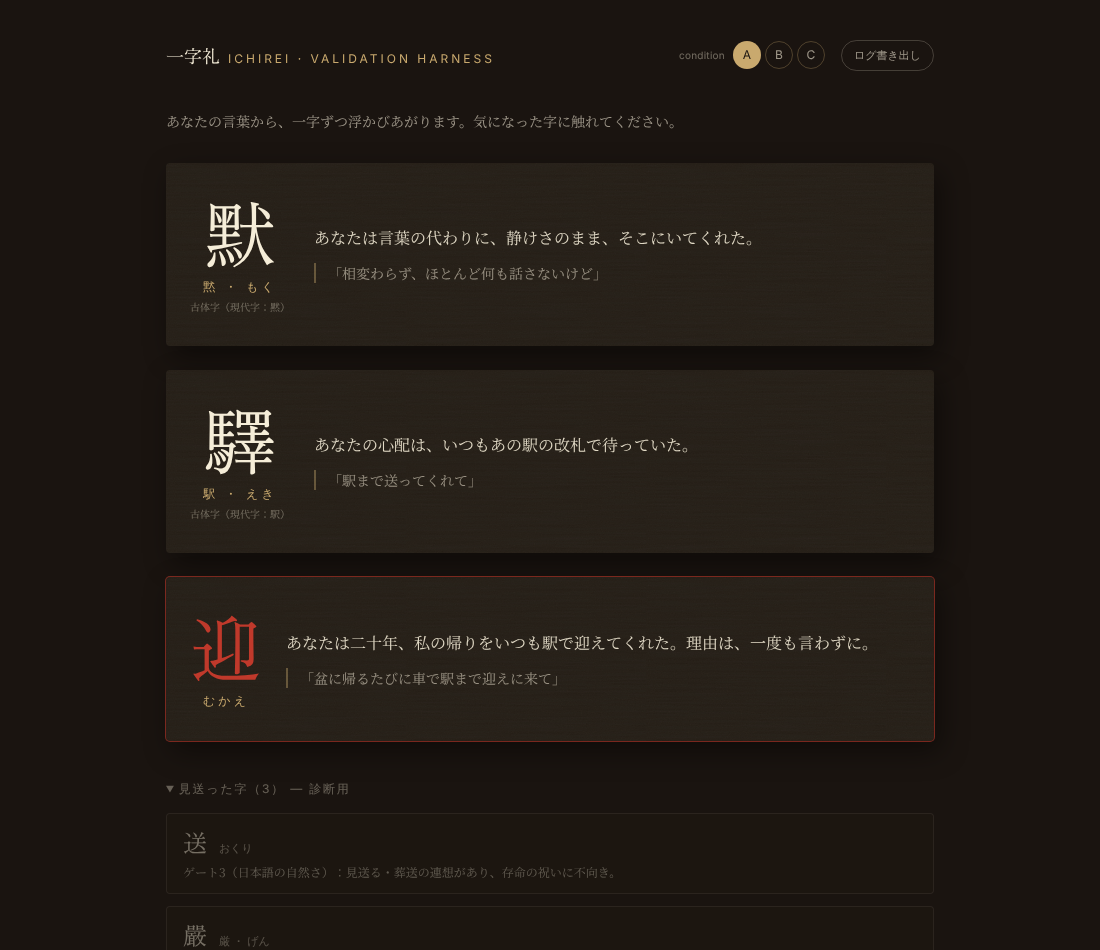
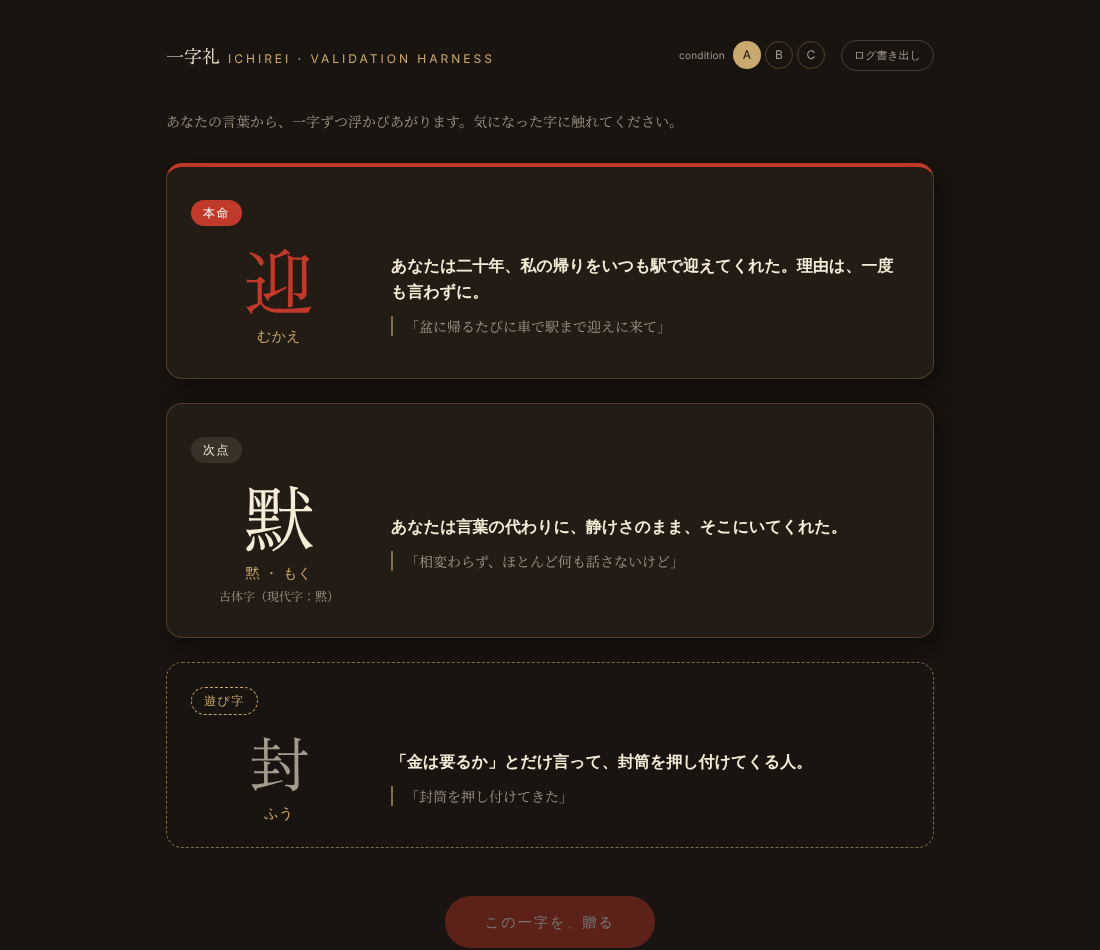
Engine: max tokens 14000, one automatic retry with 20000 when the limit is hit
- ICHIREI_MAX_TOKENS default 8000 -> 14000 (code and cloudbuild.yaml). A long remembrance story used up 8000 on reasoning.
- A run that hits the limit is retried once with ICHIREI_MAX_TOKENS_RETRY (default 20000), inside the run budget; only a second hit is an error.
- /api/health reports maxTokensRetry; the timing line reports attempts and max_tokens_used.

Claude-Session: https://claude.ai/code/session_018g1sRebtfKKYj1Xkp5zTS1

diff --git a/engine/engine.ts b/engine/engine.ts
@@ -40,9 +40,11 @@ const EFFORT = (process.env.ICHIREI_EFFORT ?? 'medium') as
   | 'high'
   | 'xhigh'
   | 'max'
-// 8000 covers the longest valid answer (three candidates + fingerprint, ≈ 2–3k tokens; the longest fixture is ~2,100 characters)
-// with room left for the reasoning, which counts against this limit too. A run that still hits it is reported as such, not as a parse error.
-const MAX_TOKENS = Number(process.env.ICHIREI_MAX_TOKENS ?? 8000)
+// The answer itself is short (≈ 1–2k tokens in the slim contract); the limit is mostly room for the REASONING, which counts against it
+// too. 8000 was too tight for a long remembrance story (a live run hit it after 105 s), so 14000, and a hit is retried once with 20000.
+const MAX_TOKENS = Number(process.env.ICHIREI_MAX_TOKENS ?? 14000)
+// One automatic retry when the answer was cut off by the limit above (the reasoning ran long, e.g. on a remembrance story).
+const MAX_TOKENS_RETRY = Number(process.env.ICHIREI_MAX_TOKENS_RETRY ?? 20000)
 // The review only checks a short answer: the fastest current model at low effort (ICHIREI_REVIEW_MODEL / ICHIREI_REVIEW_EFFORT override).
 export const DEFAULT_REVIEW_MODEL = 'claude-haiku-5-5'
 const REVIEW_MODEL = process.env.ICHIREI_REVIEW_MODEL ?? DEFAULT_REVIEW_MODEL
@@ -236,14 +238,16 @@ export async function runEngine(
   opts.onStage?.('reading')
 
   // Stream + finalMessage so reasoning doesn't hit an HTTP timeout; the function still returns one assembled JSON response.
-  // One call may take at most ICHIREI_CALL_TIMEOUT_MS (default 150 s). A selection that hits the ceiling is retried ONCE (as long as
-  // the run budget allows it) before the sender sees an error.
-  const callSelection = async (limitMs: number): Promise<Anthropic.Message> => {
+  // One call may take at most ICHIREI_CALL_TIMEOUT_MS (default 150 s). The selection gets ONE automatic retry — whichever comes first:
+  // the call hit that ceiling (same settings), or the model ran out of output room (max_tokens) before finishing its answer (the
+  // retry allows ICHIREI_MAX_TOKENS_RETRY, default 20000) — as long as the run budget still has room for it. Only then does the
+  // sender see an error.
+  const callSelection = async (limitMs: number, maxTokens: number): Promise<Anthropic.Message> => {
     const signal = callSignal(opts.signal, limitMs)
     const stream = client.messages.stream(
       {
         model: MODEL,
-        max_tokens: MAX_TOKENS,
+        max_tokens: maxTokens,
         output_config: { effort: EFFORT },
         messages: [{ role: 'user', content: prompt }],
       },
@@ -264,49 +268,59 @@ export async function runEngine(
       throw err
     }
   }
-  let message: Anthropic.Message
-  try {
-    message = await callSelection(callTimeoutMs())
-  } catch (err) {
-    if (!(err instanceof ModelTimeoutError)) throw err
+  let maxTokens = MAX_TOKENS
+  let attempts = 0
+  let message!: Anthropic.Message
+  let extracted!: EngineResult
+  /** The time left for a retry, or null when there is none (or it was already used). Logs the decision. */
+  const retryLimit = (why: 'selection_timeout' | 'max_tokens_hit', extra: Record<string, unknown>): number | null => {
     const spent = Date.now() - tStart
     const room = runBudgetMs() - spent - REVIEW_RESERVE_MS
-    console.log(`[ichirei-engine] selection_timeout ${JSON.stringify({ after_ms: spent, retry: room >= MIN_RETRY_MS, retry_limit_ms: Math.max(0, Math.min(callTimeoutMs(), room)) })}`)
-    if (room < MIN_RETRY_MS) {
-      console.log(`[ichirei-timing] ${JSON.stringify({ select_ms: spent, status: 'timeout', model: MODEL, effort: EFFORT, max_tokens: MAX_TOKENS })}`)
-      throw err
-    }
-    opts.onStage?.('reading')
+    const retry = attempts < 2 && room >= MIN_RETRY_MS
+    console.log(`[ichirei-engine] ${why} ${JSON.stringify({ after_ms: spent, attempt: attempts, retry, retry_limit_ms: Math.max(0, Math.min(callTimeoutMs(), room)), ...extra })}`)
+    return retry ? Math.min(callTimeoutMs(), room) : null
+  }
+  let limitMs = callTimeoutMs()
+  for (;;) {
+    attempts++
     try {
-      message = await callSelection(Math.min(callTimeoutMs(), room))
-    } catch (err2) {
-      if (err2 instanceof ModelTimeoutError) console.log(`[ichirei-timing] ${JSON.stringify({ select_ms: Date.now() - tStart, status: 'timeout_after_retry', model: MODEL, effort: EFFORT, max_tokens: MAX_TOKENS })}`)
-      throw err2
+      message = await callSelection(limitMs, maxTokens)
+    } catch (err) {
+      if (!(err instanceof ModelTimeoutError)) throw err
+      const next = retryLimit('selection_timeout', {})
+      if (next === null) {
+        console.log(`[ichirei-timing] ${JSON.stringify({ select_ms: Date.now() - tStart, status: attempts > 1 ? 'timeout_after_retry' : 'timeout', attempts, model: MODEL, effort: EFFORT, max_tokens: maxTokens })}`)
+        throw err
+      }
+      limitMs = next
+      opts.onStage?.('reading')
+      continue
+    }
+    opts.onUsage?.('select', { model: MODEL, input_tokens: message.usage?.input_tokens ?? 0, output_tokens: message.usage?.output_tokens ?? 0 })
+    if (message.stop_reason === 'refusal') {
+      throw new Error('Model refused the request')
+    }
+    const textOut = message.content
+      .filter((b): b is Anthropic.TextBlock => b.type === 'text')
+      .map((b) => b.text)
+      .join('')
+    try {
+      extracted = extractJson(textOut)
+      break
+    } catch (err) {
+      if (message.stop_reason !== 'max_tokens') throw err
+      // Reasoning + answer did not fit in max_tokens: try once more with more room instead of showing an error.
+      const next = retryLimit('max_tokens_hit', { max_tokens: maxTokens, output_tokens: message.usage?.output_tokens ?? null, effort: EFFORT, retry_max_tokens: MAX_TOKENS_RETRY })
+      if (next === null || MAX_TOKENS_RETRY <= maxTokens) {
+        throw new Error(`The model ran out of output room (max_tokens ${maxTokens}) before finishing its answer`)
+      }
+      maxTokens = MAX_TOKENS_RETRY
+      limitMs = next
+      opts.onStage?.('reading')
     }
   }
   const selectMs = Date.now() - tStart
-  opts.onUsage?.('select', { model: MODEL, input_tokens: message.usage?.input_tokens ?? 0, output_tokens: message.usage?.output_tokens ?? 0 })
 
-  const textOut = message.content
-    .filter((b): b is Anthropic.TextBlock => b.type === 'text')
-    .map((b) => b.text)
-    .join('')
-
-  if (message.stop_reason === 'refusal') {
-    throw new Error('Model refused the request')
-  }
-
-  let extracted: EngineResult
-  try {
-    extracted = extractJson(textOut)
-  } catch (err) {
-    // Reasoning + answer did not fit in max_tokens: say so (and log it), instead of a bare parse error.
-    if (message.stop_reason === 'max_tokens') {
-      console.log(`[ichirei-engine] max_tokens_hit ${JSON.stringify({ max_tokens: MAX_TOKENS, output_tokens: message.usage?.output_tokens ?? null, effort: EFFORT })}`)
-      throw new Error(`The model ran out of output room (max_tokens ${MAX_TOKENS}) before finishing its answer`)
-    }
-    throw err
-  }
   // The slim output contract leaves out what only the code needs (the context echo, the internal notes, the empty
   // referee fields): fill them with their neutral values here. Plumbing — nothing about the candidates is touched.
   const normalized = normalizeModelOutput(extracted)
@@ -332,7 +346,7 @@ export async function runEngine(
   const refereed = applyPalette(stamped, palette, trimmed, { deferInsufficient: true })
   if (refereed.status !== 'sufficient') {
     const closed = finalizeResult(refereed)
-    logTiming({ select_ms: selectMs, review_ms: 0, replace_ms: 0, total_ms: Date.now() - tStart, status: closed.status, stop_reason: message.stop_reason, output_tokens: message.usage?.output_tokens ?? null })
+    logTiming({ attempts, max_tokens_used: maxTokens, select_ms: selectMs, review_ms: 0, replace_ms: 0, total_ms: Date.now() - tStart, status: closed.status, stop_reason: message.stop_reason, output_tokens: message.usage?.output_tokens ?? null })
     return closed
   }
 
@@ -362,16 +376,16 @@ export async function runEngine(
   })
   // The last gate: at most one main, one second, one freestyle — and never zero cards without a question.
   const final = finalizeResult(completed)
-  logTiming({ select_ms: selectMs, review_ms: reviewMs, replace_ms: Date.now() - tReplace, total_ms: Date.now() - tStart, status: final.status, stop_reason: message.stop_reason, output_tokens: message.usage?.output_tokens ?? null })
+  logTiming({ attempts, max_tokens_used: maxTokens, select_ms: selectMs, review_ms: reviewMs, replace_ms: Date.now() - tReplace, total_ms: Date.now() - tStart, status: final.status, stop_reason: message.stop_reason, output_tokens: message.usage?.output_tokens ?? null })
   return final
 }
 
 /** One line per run: where the time went (no story text). Read it in the Cloud Run logs. */
-function logTiming(t: { select_ms: number; review_ms: number; replace_ms: number; total_ms: number; status: string; stop_reason: string | null; output_tokens: number | null }) {
+function logTiming(t: { attempts: number; max_tokens_used: number; select_ms: number; review_ms: number; replace_ms: number; total_ms: number; status: string; stop_reason: string | null; output_tokens: number | null }) {
   console.log(`[ichirei-timing] ${JSON.stringify({ ...t, model: MODEL, effort: EFFORT, max_tokens: MAX_TOKENS, review_model: REVIEW_MODEL })}`)
 }
 
 const REVIEW_RESERVE_MS = 20_000 // time kept for the review after a retried selection
 const MIN_RETRY_MS = 30_000 // a retry with less than this left would only time out again
 
-export const ENGINE_CONFIG = { MODEL, EFFORT, MAX_TOKENS, REVIEW_MODEL, REVIEW_EFFORT: process.env.ICHIREI_REVIEW_EFFORT ?? 'low', CALL_TIMEOUT_MS: callTimeoutMs(), REVIEW_TIMEOUT_MS: reviewTimeoutMs() }
+export const ENGINE_CONFIG = { MODEL, EFFORT, MAX_TOKENS, MAX_TOKENS_RETRY, REVIEW_MODEL, REVIEW_EFFORT: process.env.ICHIREI_REVIEW_EFFORT ?? 'low', CALL_TIMEOUT_MS: callTimeoutMs(), REVIEW_TIMEOUT_MS: reviewTimeoutMs() }

diff --git a/server/app.ts b/server/app.ts
@@ -96,6 +96,7 @@ export function createApp(config: ServerConfig): Hono {
       model: ENGINE_CONFIG.MODEL,
       effort: ENGINE_CONFIG.EFFORT,
       maxTokens: ENGINE_CONFIG.MAX_TOKENS,
+      maxTokensRetry: ENGINE_CONFIG.MAX_TOKENS_RETRY,
       reviewModel: ENGINE_CONFIG.REVIEW_MODEL,
       reviewEffort: ENGINE_CONFIG.REVIEW_EFFORT,
       callTimeoutMs: ENGINE_CONFIG.CALL_TIMEOUT_MS,

diff --git a/DEPLOY.md b/DEPLOY.md
@@ -262,14 +262,14 @@ Recorded from the owner's report; nothing here is a secret value. Re-check with 
 | Setting | Env | Was | Now |
 |---|---|---|---|
 | Selection reasoning depth | `ICHIREI_EFFORT` | `high` | **`medium`** |
-| Selection output limit (reasoning **and** answer) | `ICHIREI_MAX_TOKENS` | 20000 | **8000** — the longest valid answer in the fixtures is ≈ 2,100 characters (≈ 2–3k tokens); the rest is room for the reasoning. A run that still hits the limit fails with a clear message and a `[ichirei-engine] max_tokens_hit` log line (watch for it; raise the value if it appears) |
+| Selection output limit (reasoning **and** answer) | `ICHIREI_MAX_TOKENS` | 20000 (8000 for one day) | **14000**. The answer itself is only ≈ 1–2k tokens; the rest is room for the model's reasoning, which a long remembrance story used up (a live run hit 8000 after 105 s). A run that still hits the limit is **retried once automatically with `ICHIREI_MAX_TOKENS_RETRY` (20000)**, inside the run budget; only a second hit shows an error. Logged as `[ichirei-engine] max_tokens_hit {…, retry}`; the `[ichirei-timing]` line carries `attempts` and `max_tokens_used` |
 | Review call (it only checks a short answer) | `ICHIREI_REVIEW_MODEL` / `ICHIREI_REVIEW_EFFORT` | the selection model, `low` | **`claude-haiku-5-5`**, `low` (its output limit is 2,500 tokens) |
 | Replacement (a missing main card) | `ICHIREI_REPLACE_MODEL` | the review model | the selection model (it must pass the person test); its review uses the review model |
 | Longest the selection call (and the replacement's ceiling) may take | `ICHIREI_CALL_TIMEOUT_MS` | — (90000 for one day: it cut off slow-but-fine runs) | **150000** (150 s). A selection that hits it is **retried once automatically** (if the run budget `ICHIREI_RUN_BUDGET_MS`, 270 s, still has room); two timeouts → the page shows its timeout message (`code: model_timeout`) |
 | Longest the review call may take | `ICHIREI_REVIEW_TIMEOUT_MS` | — | **60000**. A review that times out (or fails) never fails the run: the selection is shown without it — the mains stand, the unreviewed freestyle is dropped — and it is logged |
 | Longest a replacement call may take | `ICHIREI_REPLACE_TIMEOUT_MS` | — | **75000** (it is optional: on timeout the sender simply gets the cards that exist) |
 
-`/api/health` reports the running values (`effort`, `maxTokens`, `reviewModel`, `reviewEffort`, `callTimeoutMs`, `reviewTimeoutMs`). **Quality has not been measured on the live model** — compare against the five stories with `scripts/bench-select.mjs` and, if the main characters get shallower, raise `_EFFORT` back to `high` in `cloudbuild.yaml` (one line).
+`/api/health` reports the running values (`effort`, `maxTokens`, `maxTokensRetry`, `reviewModel`, `reviewEffort`, `callTimeoutMs`, `reviewTimeoutMs`). **Quality has not been measured on the live model** — compare against the five stories with `scripts/bench-select.mjs` and, if the main characters get shallower, raise `_EFFORT` back to `high` in `cloudbuild.yaml` (one line).
 
 ## Editing the engine prompt
 

diff --git a/README.md b/README.md
@@ -45,7 +45,7 @@ Behavioral events accumulate in the browser (export via the ログ書き出し b
 2. Add environment variable **`ANTHROPIC_API_KEY`** (server-side; never exposed to the browser).
 3. Deploy, open `/demo`, paste a story (or use the golden fixture below), run.
 
-Optional env overrides: `ICHIREI_MODEL` (default `claude-sonnet-5`), `ICHIREI_EFFORT` (default `medium`), `ICHIREI_MAX_TOKENS` (default `8000`), `ICHIREI_REVIEW_MODEL` (default `claude-haiku-5-5`), `ICHIREI_REVIEW_EFFORT` (default `low`), `ICHIREI_CALL_TIMEOUT_MS` (default `150000`, the selection call; one automatic retry), `ICHIREI_REVIEW_TIMEOUT_MS` (default `60000`). `cloudbuild.yaml` sets them on every deploy.
+Optional env overrides: `ICHIREI_MODEL` (default `claude-sonnet-5`), `ICHIREI_EFFORT` (default `medium`), `ICHIREI_MAX_TOKENS` (default `14000`; one automatic retry with `ICHIREI_MAX_TOKENS_RETRY`, default `20000`), `ICHIREI_REVIEW_MODEL` (default `claude-haiku-5-5`), `ICHIREI_REVIEW_EFFORT` (default `low`), `ICHIREI_CALL_TIMEOUT_MS` (default `150000`, the selection call; one automatic retry), `ICHIREI_REVIEW_TIMEOUT_MS` (default `60000`). `cloudbuild.yaml` sets them on every deploy.
 
 `/api/select` **streams** its response (NDJSON: `delta` progress lines, then one terminal `result`/`error` line) so the connection carries bytes throughout the model's reasoning pass, and both functions export `maxDuration = 60` (the Hobby ceiling). The client enforces a hard 90s deadline — on timeout or any server/parse error the UI shows the reason instead of spinning. If runs still hit the 60s function ceiling, set `ICHIREI_EFFORT=medium`, or enable Fluid Compute on the Vercel project and raise `maxDuration` (one number in `api/select.ts` + `vercel.json`).
 
